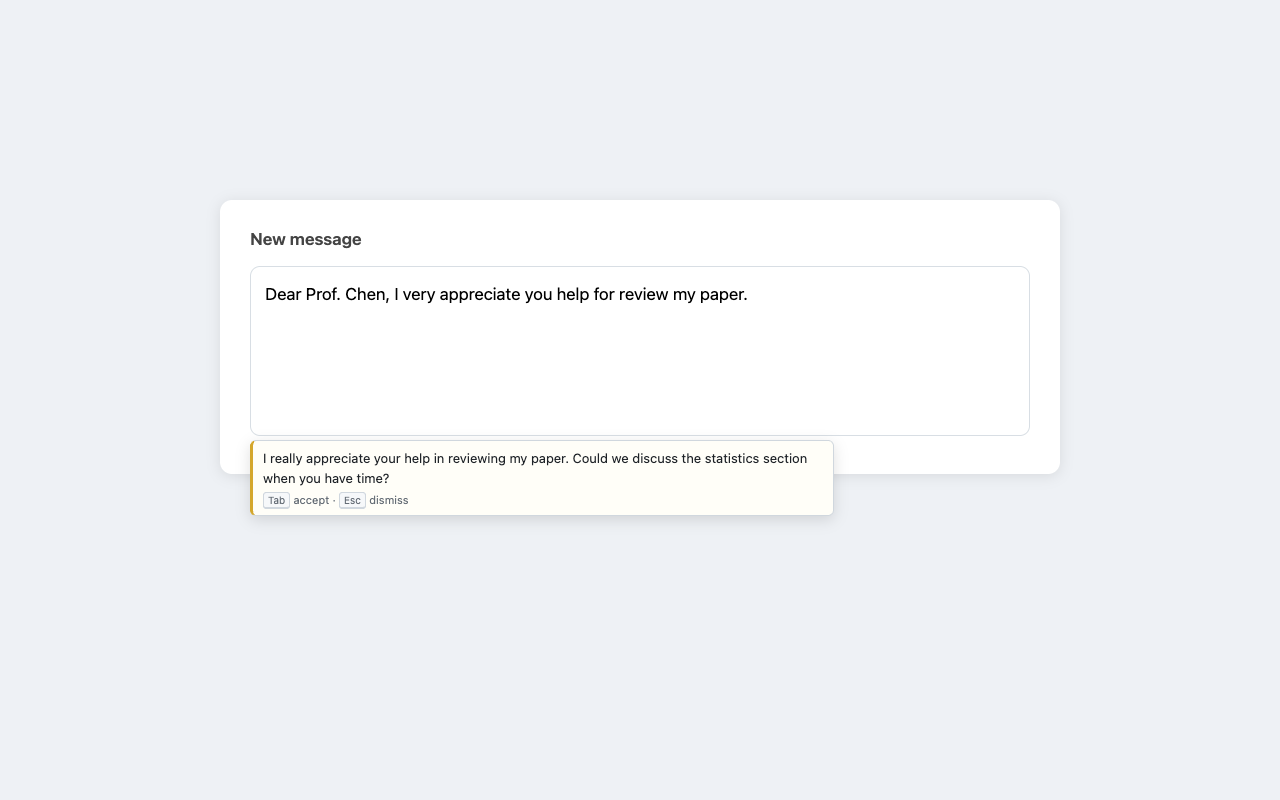
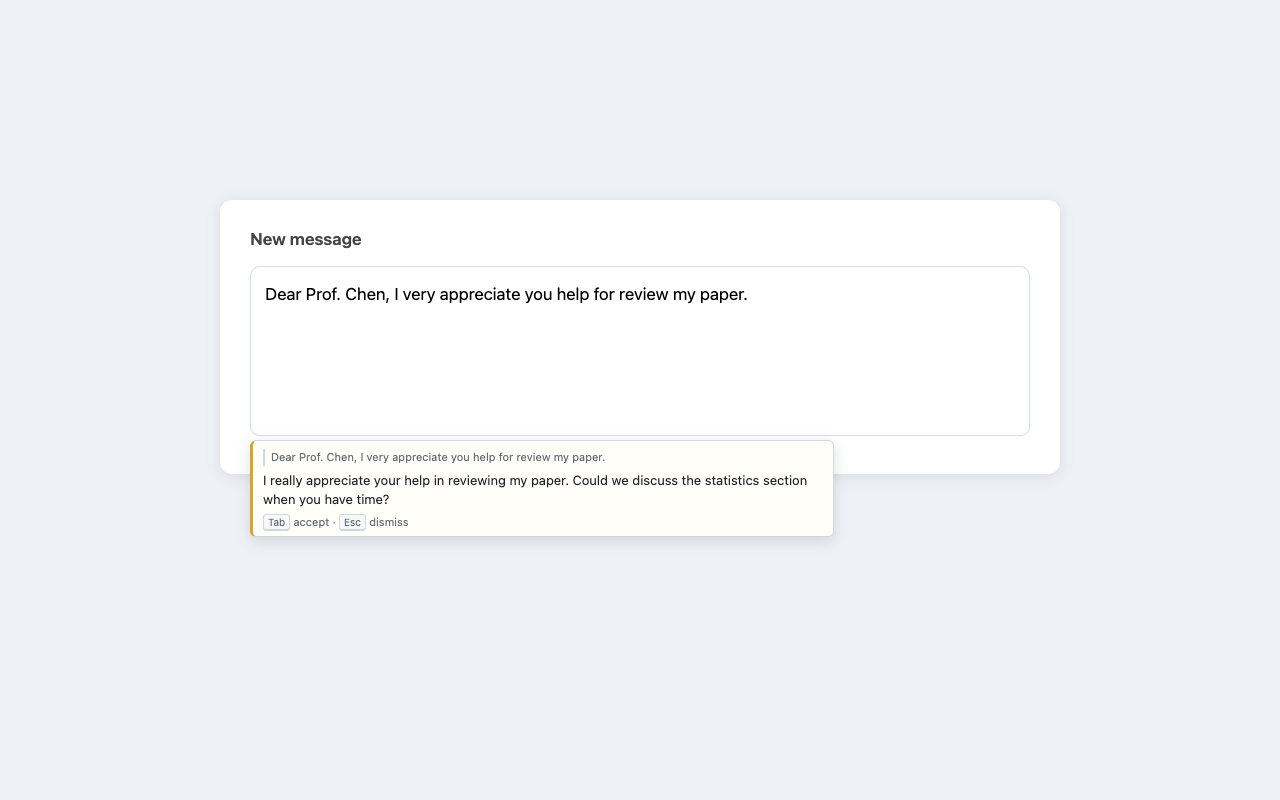
chore: align store package and assets with manual-only default
- rebuild zip as 0.1.2 (previous dist zip predated the Alt+R default,
  so the dashboard auto-filled the old 'pause typing' description)
- store-shots: opt into autoTrigger so the screenshot flow still works;
  regenerate both screenshots (options page now shows the new toggle)
- listing.md: version refs + privacy justifications now lead with
  'nothing is sent until the user presses Alt+R'

Claude-Session: https://claude.ai/code/session_018fpw37TxM3Lc4rYbit5oqY

Changed region(s): [[0.1875, 0.5625, 0.6562, 0.6875]]

diff --git a/docs/store/listing.md b/docs/store/listing.md
@@ -9,7 +9,7 @@ https://chrome.google.com/webstore/devconsole → 用你的 Google 帳號登入 
 
 ## 1. 上傳套件
 
-「New item」→ 上傳 `dist/inline-reformat-0.1.1.zip`（repo 裡跑 `npm run pack` 重新產生）。
+「New item」→ 上傳 `dist/inline-reformat-0.1.2.zip`（repo 裡跑 `npm run pack` 重新產生）。
 
 ## 2. Store listing 分頁
 
@@ -57,7 +57,7 @@ Not supported: Google Docs (canvas rendering) and code editors like CodeMirror/M
 **Single purpose description（貼這段）**
 
 ```
-Rewrites the paragraph the user is typing into fluent English, using an LLM API endpoint and API key that the user configures themselves.
+Rewrites the paragraph the user is typing into fluent English when the user explicitly requests it (Alt+R by default; an optional automatic trigger is off by default), using an LLM API endpoint and API key that the user configures themselves.
 ```
 
 **Permission justifications（每格貼對應段落）**
@@ -77,7 +77,7 @@ Sends the paragraph being rewritten to the Anthropic Messages API when the user 
 - Content scripts on all sites（`<all_urls>`）:
 
 ```
-The extension's single purpose is to offer rewrite suggestions in any text field the user types in, on whatever site they happen to be writing (email, issue trackers, review systems). The content script only reads the field the user is actively typing in, and only the single paragraph under the caret is ever sent to the user-configured endpoint. No page content is read beyond that field, and nothing is collected or logged.
+The extension's single purpose is to offer rewrite suggestions in any text field the user types in, on whatever site they happen to be writing (email, issue trackers, review systems). The content script only reads the field the user is actively typing in, and by default nothing is sent anywhere until the user explicitly presses Alt+R; the optional automatic trigger is off by default. Only the single paragraph under the caret is ever sent, and only to the user-configured endpoint. No page content is read beyond that field, and nothing is collected or logged.
 ```
 
 - Optional host permissions（`https://*/*`, `http://*/*`）:
